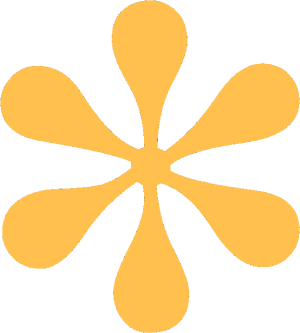
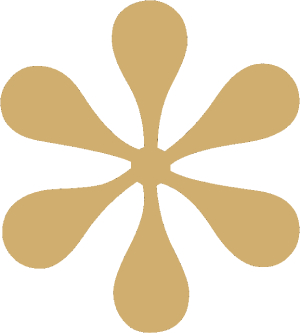
color refresh

diff --git a/assets/styles/css/styles.css b/assets/styles/css/styles.css
@@ -47,7 +47,7 @@
   width: 100%;
   height: 100%;
   border-style: solid;
-  border-color: #ffc04d;
+  border-color: #CFAE70;
 }
 .header .main-nav li a::before {
   border-width: 2px 0 2px 0;
@@ -219,7 +219,7 @@
           box-shadow: 0 10px 10px -8px rgba(0, 0, 0, 0.22);
   position: relative;
   font-weight: 700;
-  color: #ffc04d;
+  color: #CFAE70;
   line-height: 28.8px;
 }
 .main a.btn span, .main .btn span, .main button.btn span {
@@ -227,7 +227,7 @@
   z-index: 1;
 }
 .main a.btn .btn-icon, .main .btn .btn-icon, .main button.btn .btn-icon {
-  background-color: #ffc04d;
+  background-color: #CFAE70;
   width: 92px;
   height: 100%;
   position: absolute;
@@ -269,7 +269,7 @@
 }
 @media screen and (max-width: 590px) {
   .main a.btn span, .main .btn span, .main button.btn span {
-    color: #ffc04d;
+    color: #CFAE70;
   }
   .main a.btn .btn-icon, .main .btn .btn-icon, .main button.btn .btn-icon {
     background-color: transparent;
@@ -280,13 +280,13 @@
     transition: none;
   }
   .main a.btn .btn-icon .fa, .main .btn .btn-icon .fa, .main button.btn .btn-icon .fa {
-    color: #ffc04d;
+    color: #CFAE70;
   }
   .main a.btn .btn-icon::after, .main .btn .btn-icon::after, .main button.btn .btn-icon::after {
     content: none;
   }
   .main a.btn:hover, .main a.btn:focus, .main a.btn.active, .main .btn:hover, .main .btn:focus, .main .btn.active, .main button.btn:hover, .main button.btn:focus, .main button.btn.active {
-    background: #ffc04d;
+    background: #CFAE70;
   }
   .main a.btn:hover span, .main a.btn:hover .btn-icon .fa, .main a.btn:focus span, .main a.btn:focus .btn-icon .fa, .main a.btn.active span, .main a.btn.active .btn-icon .fa, .main .btn:hover span, .main .btn:hover .btn-icon .fa, .main .btn:focus span, .main .btn:focus .btn-icon .fa, .main .btn.active span, .main .btn.active .btn-icon .fa, .main button.btn:hover span, .main button.btn:hover .btn-icon .fa, .main button.btn:focus span, .main button.btn:focus .btn-icon .fa, .main button.btn.active span, .main button.btn.active .btn-icon .fa {
     color: #fff;
@@ -322,7 +322,7 @@ img {
 }
 .close-x:focus {
   outline: -webkit-focus-ring-color auto 1px;
-  color: #000;
+  color: #1C1C1C;
   border-radius: 3px;
 }
 
@@ -358,7 +358,7 @@ body.home .main {
   }
 }
 .main a:hover, .main a:focus {
-  color: #ffc04d !important;
+  color: #CFAE70 !important;
 }
 .main ul, .main ol {
   list-style: none;
@@ -390,7 +390,7 @@ body.occupations .header .main-nav li:nth-of-type(6) a::after {
 }
 
 .main a {
-  color: #ffc04d;
+  color: #CFAE70;
   position: relative;
   font-weight: 700;
 }
@@ -400,7 +400,7 @@ body.occupations .header .main-nav li:nth-of-type(6) a::after {
   width: 100%;
   height: 3px;
   border-radius: 3px;
-  background-color: #ffc04d;
+  background-color: #CFAE70;
   bottom: 0;
   left: 0;
   -webkit-transform-origin: right;
@@ -458,7 +458,7 @@ body.occupations .header .main-nav li:nth-of-type(6) a::after {
   position: absolute;
   width: 0.6em;
   height: 0.6em;
-  background: #ffc04d;
+  background: #CFAE70;
   left: -5px;
   top: 0;
   z-index: 1;
@@ -476,7 +476,7 @@ body.occupations .header .main-nav li:nth-of-type(6) a::after {
   color: #999;
 }
 .main .list-item .years-duration {
-  border: 2px solid #ffc04d;
+  border: 2px solid #CFAE70;
   padding: 3px 5px;
   border-radius: 15px;
   margin-right: 1em !important;
@@ -704,7 +704,7 @@ body.occupations .header .main-nav li:nth-of-type(6) a::after {
   left: -1.7em;
   top: 0.2em;
   font-size: 1.3rem;
-  color: #ffc04d;
+  color: #CFAE70;
 }
 .popup ul:first-of-type li:first-child .fa {
   font-size: 1.1rem;
@@ -738,8 +738,8 @@ body.occupations .header .main-nav li:nth-of-type(6) a::after {
   aspect-ratio: 1/1;
   border-radius: 50%;
   border: 1px solid;
-  background: rgba(255, 192, 77, 0.5);
-  color: #000;
+  background: rgba(207, 174, 112, 0.5);
+  color: #1C1C1C;
   display: -webkit-box;
   display: -ms-flexbox;
   display: flex;
@@ -768,7 +768,7 @@ body.occupations .header .main-nav li:nth-of-type(6) a::after {
   }
 }
 .navigation-arrows .arrow-button:hover, .navigation-arrows .arrow-button:focus {
-  background: #ffc04d;
+  background: #cfae70;
 }
 .navigation-arrows.show {
   display: -webkit-box;
@@ -839,10 +839,10 @@ body.occupations .header .main-nav li:nth-of-type(6) a::after {
   transition: 0.2s border ease;
 }
 .card-wrap-grid .grid-button.emphasize {
-  border-color: #ffc04d;
+  border-color: #CFAE70;
 }
 .card-wrap-grid .grid-button:focus-within {
-  outline: 2px solid #ffc04d;
+  outline: 2px solid #CFAE70;
 }
 .card-wrap-grid .grid-button img {
   position: absolute;
@@ -855,8 +855,8 @@ body.occupations .header .main-nav li:nth-of-type(6) a::after {
 }
 .card-wrap-grid .grid-button .tooltip {
   position: absolute;
-  background: #000;
-  color: #ffc04d;
+  background: #1C1C1C;
+  color: #CFAE70;
   width: 350px;
   font-size: 0.8rem;
   text-align: left;
@@ -917,8 +917,9 @@ body.occupations .header .main-nav li:nth-of-type(6) a::after {
   overflow-y: hidden;
 }
 .card-wrap-grid .popups-container .grid-popup .close-x {
-  background: #fff;
-  border: 1px solid;
+  background: #1C1C1C;
+  color: #CFAE70;
+  border: 1px solid #CFAE70;
 }
 .card-wrap-grid .popups-container .grid-popup .popup-sec {
   width: 40%;
@@ -1109,7 +1110,7 @@ body.occupations .header .main-nav li:nth-of-type(6) a::after {
   display: none;
 }
 .social-icons li a:hover, .social-icons li a:focus {
-  color: #ffc04d !important;
+  color: #CFAE70 !important;
 }
 
 .footer {
@@ -1136,7 +1137,7 @@ body.occupations .header .main-nav li:nth-of-type(6) a::after {
   transition: 0.3s color ease-in-out;
 }
 .footer p a:hover, .footer p a:focus {
-  color: #ffc04d;
+  color: #CFAE70;
 }
 
 @-webkit-keyframes shapeRotate {
@@ -1234,7 +1235,7 @@ body.occupations .header .main-nav li:nth-of-type(6) a::after {
 .bg-shape--square {
   width: 250px;
   aspect-ratio: 1/1;
-  border: 20px solid #ffc04d;
+  border: 20px solid #CFAE70;
   border-radius: 10px;
   left: 10%;
   -webkit-animation: shapeRotateAndMove 30s infinite linear;
@@ -1243,7 +1244,7 @@ body.occupations .header .main-nav li:nth-of-type(6) a::after {
 .bg-shape--line {
   width: 600px;
   height: 20px;
-  background: #ffc04d;
+  background: #CFAE70;
   animation-direction: reverse;
   -webkit-animation-duration: 51s;
           animation-duration: 51s;
@@ -1253,7 +1254,7 @@ body.occupations .header .main-nav li:nth-of-type(6) a::after {
 .bg-shape--circle {
   width: 300px;
   aspect-ratio: 1/1;
-  border: 20px solid #ffc04d;
+  border: 20px solid #CFAE70;
   border-radius: 50%;
   top: 20%;
   right: 20%;
